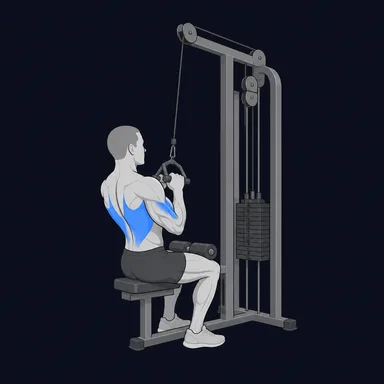
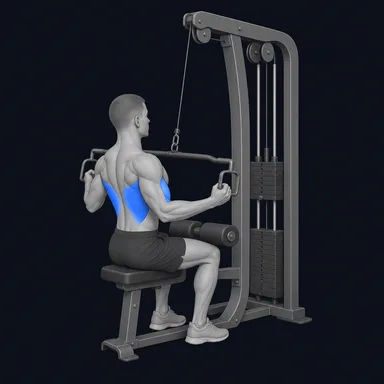
1

Changed region(s): [[0.1875, 0.0312, 0.8125, 0.9375]]

diff --git a/GymBook/Src/Services/Exercises/ExerciseThumbnailAssets.cs b/GymBook/Src/Services/Exercises/ExerciseThumbnailAssets.cs
@@ -1,4 +1,4 @@
-// Generated from Resources/Raw/exercises by tools/exercises/sync-thumbnail-manifest.mjs.
+// Generated from Resources/Raw/exercises by tools/exercises/thumbs.mjs.
 namespace GymBook.Services;
 
 public static class ExerciseThumbnailAssets
